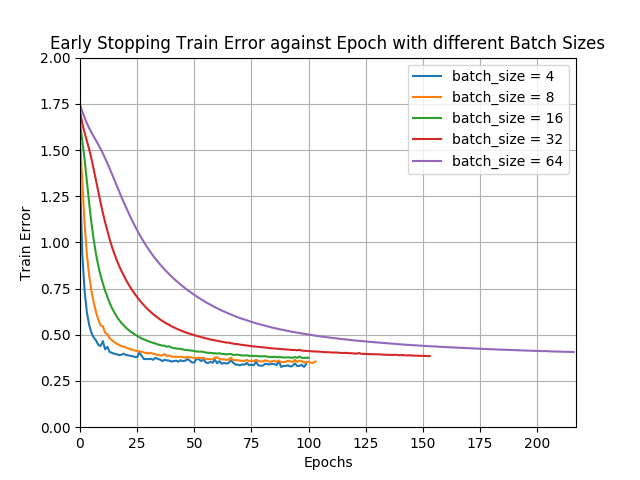
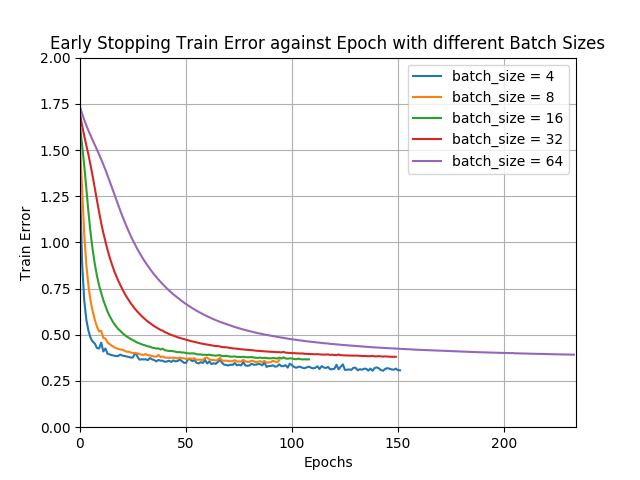
New q2 figures

diff --git a/Assignment1/jp_start_project_1a.py b/Assignment1/jp_start_project_1a.py
@@ -56,7 +56,7 @@ class Classifier():
     #end def
     
     def _build_layer(self, X, input_dim, output_dim, hidden=False):
-        W = tf.Variable(tf.truncated_normal([input_dim, output_dim], stddev=1.0/math.sqrt(float(NUM_FEATURES)), seed=10), name='weights')
+        W = tf.Variable(tf.truncated_normal([input_dim, output_dim], stddev=1.0/math.sqrt(float(input_dim)), seed=10), name='weights')
         B = tf.Variable(tf.zeros([output_dim]), name='biases')
         if hidden:
             U = tf.nn.relu(tf.matmul(X, W) + B)
@@ -336,66 +336,6 @@ def main():
     for batch_size in batch_sizes:
         print('Batch size {} Test set classification report:\n{}'.format(batch_size, classification_report(_transform_Y(testY), predicted_dict[batch_size], digits=3, labels=np.unique(predicted_dict[batch_size]))))
 
-    # Batch size 4 Test set classification report:
-    #              precision    recall  f1-score   support
-       
-    #           1      0.976     0.980     0.978       461
-    #           2      0.973     0.955     0.964       224
-    #           3      0.907     0.859     0.882       397
-    #           4      0.570     0.559     0.565       211
-    #           5      0.886     0.857     0.871       237
-    #           7      0.810     0.870     0.839       470
-       
-    # avg / total      0.870     0.869     0.869      2000
-       
-    # Batch size 8 Test set classification report:
-    #              precision    recall  f1-score   support
-       
-    #           1      0.966     0.989     0.977       461
-    #           2      0.952     0.969     0.960       224
-    #           3      0.859     0.935     0.895       397
-    #           4      0.705     0.441     0.542       211
-    #           5      0.904     0.831     0.866       237
-    #           7      0.807     0.889     0.846       470
-       
-    # avg / total      0.871     0.876     0.869      2000
-       
-    # Batch size 16 Test set classification report:
-    #              precision    recall  f1-score   support
-       
-    #           1      0.976     0.985     0.981       461
-    #           2      0.960     0.969     0.964       224
-    #           3      0.872     0.929     0.900       397
-    #           4      0.551     0.384     0.453       211
-    #           5      0.912     0.835     0.872       237
-    #           7      0.772     0.857     0.812       470
-       
-    # avg / total      0.853     0.861     0.855      2000
-       
-    # Batch size 32 Test set classification report:
-    #              precision    recall  f1-score   support
-       
-    #           1      0.970     0.980     0.975       461
-    #           2      0.951     0.946     0.949       224
-    #           3      0.856     0.940     0.896       397
-    #           4      0.532     0.351     0.423       211
-    #           5      0.868     0.802     0.833       237
-    #           7      0.774     0.851     0.811       470
-       
-    # avg / total      0.841     0.851     0.843      2000
-
-    # Batch size 64 Test set classification report:
-    #              precision    recall  f1-score   support
-       
-    #           1      0.968     0.985     0.976       461
-    #           2      0.946     0.942     0.944       224
-    #           3      0.852     0.942     0.895       397
-    #           4      0.508     0.313     0.387       211
-    #           5      0.844     0.755     0.797       237
-    #           7      0.763     0.855     0.806       470
-
-    # avg / total      0.831     0.843     0.833      2000
-
 
     #### With Early Stopping 
     train_err_list = []
@@ -467,66 +407,6 @@ def main():
     for batch_size in batch_sizes:
         print('Early Stopping Batch size {} Test set classification report:\n{}'.format(batch_size, classification_report(_transform_Y(testY), predicted_dict[batch_size], digits=3, labels=np.unique(predicted_dict[batch_size]))))
 
-# Early Stopping Batch size 4 Test set classification report:
-#              precision    recall  f1-score   support
-   
-#           1      0.980     0.963     0.972       461
-#           2      0.968     0.933     0.950       224
-#           3      0.880     0.919     0.899       397
-#           4      0.514     0.171     0.256       211
-#           5      0.798     0.882     0.838       237
-#           7      0.735     0.913     0.814       470
-   
-# avg / total      0.830     0.846     0.826      2000
-   
-# Early Stopping Batch size 8 Test set classification report:
-#              precision    recall  f1-score   support
-   
-#           1      0.980     0.970     0.975       461
-#           2      0.938     0.938     0.938       224
-#           3      0.838     0.952     0.892       397
-#           4      0.531     0.204     0.295       211
-#           5      0.834     0.722     0.774       237
-#           7      0.724     0.898     0.802       470
-   
-# avg / total      0.822     0.836     0.818      2000
-
-# Early Stopping Batch size 16 Test set classification report:
-#              precision    recall  f1-score   support
-   
-#           1      0.956     0.983     0.969       461
-#           2      0.933     0.929     0.931       224
-#           3      0.817     0.965     0.885       397
-#           4      0.494     0.190     0.274       211
-#           5      0.786     0.684     0.731       237
-#           7      0.740     0.862     0.796       470
-   
-# avg / total      0.806     0.826     0.806      2000
-   
-# Early Stopping Batch size 32 Test set classification report:
-#              precision    recall  f1-score   support
-   
-#           1      0.950     0.987     0.968       461
-#           2      0.949     0.915     0.932       224
-#           3      0.855     0.952     0.901       397
-#           4      0.490     0.223     0.306       211
-#           5      0.777     0.662     0.715       237
-#           7      0.727     0.874     0.794       470
-   
-# avg / total      0.810     0.827     0.810      2000
-   
-# Early Stopping Batch size 64 Test set classification report:
-#              precision    recall  f1-score   support
-   
-#           1      0.944     0.987     0.965       461
-#           2      0.949     0.915     0.932       224
-#           3      0.821     0.967     0.888       397
-#           4      0.500     0.147     0.227       211
-#           5      0.783     0.624     0.695       237
-#           7      0.719     0.891     0.796       470
-   
-# avg / total      0.801     0.821     0.796      2000
-
 
     optimal_batch_size = 4
 
@@ -595,65 +475,6 @@ def main():
     # for num_neurons in num_hidden_neurons:
     #     print('Number of Neurons {} Test set classification report:\n{}'.format(num_neurons, classification_report(_transform_Y(testY), predicted_dict[num_neurons], digits=3, labels=np.unique(predicted_dict[num_neurons]))))
 
-    # # Number of Neurons 5 Test set classification report:
-    # #              precision    recall  f1-score   support
-       
-    # #           1      0.980     0.974     0.977       461
-    # #           2      0.909     0.933     0.921       224
-    # #           3      0.870     0.924     0.896       397
-    # #           4      0.523     0.374     0.436       211
-    # #           5      0.827     0.785     0.805       237
-    # #           7      0.765     0.836     0.799       470
-       
-    # # avg / total      0.833     0.842     0.835      2000
-       
-    # # Number of Neurons 10 Test set classification report:
-    # #              precision    recall  f1-score   support
-       
-    # #           1      0.981     0.983     0.982       461
-    # #           2      0.964     0.964     0.964       224
-    # #           3      0.834     0.972     0.898       397
-    # #           4      0.724     0.360     0.481       211
-    # #           5      0.917     0.840     0.877       237
-    # #           7      0.783     0.881     0.829       470
-       
-    # # avg / total      0.868     0.872     0.862      2000
-       
-    # # Number of Neurons 15 Test set classification report:
-    # #              precision    recall  f1-score   support
-       
-    # #           1      0.964     0.985     0.974       461
-    # #           2      0.968     0.951     0.959       224
-    # #           3      0.890     0.894     0.892       397
-    # #           4      0.640     0.521     0.574       211
-    # #           5      0.872     0.831     0.851       237
-    # #           7      0.801     0.872     0.835       470
-       
-    # # avg / total      0.866     0.870     0.867      2000
-       
-    # # Number of Neurons 20 Test set classification report:
-    # #              precision    recall  f1-score   support
-       
-    # #           1      0.974     0.987     0.981       461
-    # #           2      0.982     0.955     0.968       224
-    # #           3      0.870     0.907     0.888       397
-    # #           4      0.654     0.725     0.688       211
-    # #           5      0.893     0.878     0.885       237
-    # #           7      0.892     0.823     0.856       470
-       
-    # # avg / total      0.891     0.888     0.889      2000
-
-    # # Number of Neurons 25 Test set classification report:
-    # #              precision    recall  f1-score   support
-       
-    # #           1      0.956     0.996     0.976       461
-    # #           2      0.960     0.973     0.967       224
-    # #           3      0.852     0.970     0.907       397
-    # #           4      0.747     0.531     0.620       211
-    # #           5      0.896     0.869     0.882       237
-    # #           7      0.859     0.843     0.851       470
-       
-    # # avg / total      0.884     0.888     0.883      2000
 
 
     # #### With Early Stopping
@@ -725,65 +546,7 @@ def main():
     # for num_neurons in num_hidden_neurons:
     #     print('Early Stopping Number of Neurons {} Test set classification report:\n{}'.format(num_neurons, classification_report(_transform_Y(testY), predicted_dict[num_neurons], digits=3, labels=np.unique(predicted_dict[num_neurons]))))
 
-    # # Early Stopping Number of Neurons 5 Test set classification report:
-    # #              precision    recall  f1-score   support
-       
-    # #           1      0.956     0.989     0.972       461
-    # #           2      0.946     0.933     0.939       224
-    # #           3      0.920     0.864     0.891       397
-    # #           4      0.476     0.526     0.500       211
-    # #           5      0.785     0.772     0.779       237
-    # #           7      0.810     0.798     0.804       470
-       
-    # # avg / total      0.842     0.839     0.840      2000
-       
-    # # Early Stopping Number of Neurons 10 Test set classification report:
-    # #              precision    recall  f1-score   support
-       
-    # #           1      0.962     0.989     0.975       461
-    # #           2      0.955     0.942     0.948       224
-    # #           3      0.916     0.877     0.896       397
-    # #           4      0.476     0.384     0.425       211
-    # #           5      0.885     0.776     0.827       237
-    # #           7      0.750     0.872     0.806       470
-       
-    # # avg / total      0.842     0.845     0.841      2000
-       
-    # # Early Stopping Number of Neurons 15 Test set classification report:
-    # #              precision    recall  f1-score   support
-       
-    # #           1      0.964     0.987     0.975       461
-    # #           2      0.951     0.955     0.953       224
-    # #           3      0.894     0.909     0.901       397
-    # #           4      0.597     0.569     0.583       211
-    # #           5      0.871     0.772     0.819       237
-    # #           7      0.809     0.840     0.825       470
-       
-    # # avg / total      0.863     0.864     0.863      2000
-       
-    # # Early Stopping Number of Neurons 20 Test set classification report:
-    # #              precision    recall  f1-score   support
-       
-    # #           1      0.981     0.983     0.982       461
-    # #           2      0.972     0.929     0.950       224
-    # #           3      0.927     0.836     0.879       397
-    # #           4      0.514     0.531     0.522       211
-    # #           5      0.838     0.810     0.824       237
-    # #           7      0.782     0.864     0.821       470
-       
-    # # avg / total      0.856     0.852     0.853      2000
 
-    # # Early Stopping Number of Neurons 25 Test set classification report:
-    # #              precision    recall  f1-score   support
-       
-    # #           1      0.987     0.967     0.977       461
-    # #           2      0.960     0.973     0.967       224
-    # #           3      0.829     0.967     0.893       397
-    # #           4      0.712     0.199     0.311       211
-    # #           5      0.869     0.865     0.867       237
-    # #           7      0.751     0.900     0.819       470
-       
-    # # avg / total      0.854     0.859     0.839      2000
 
     optimal_num_neurons = 15
 
